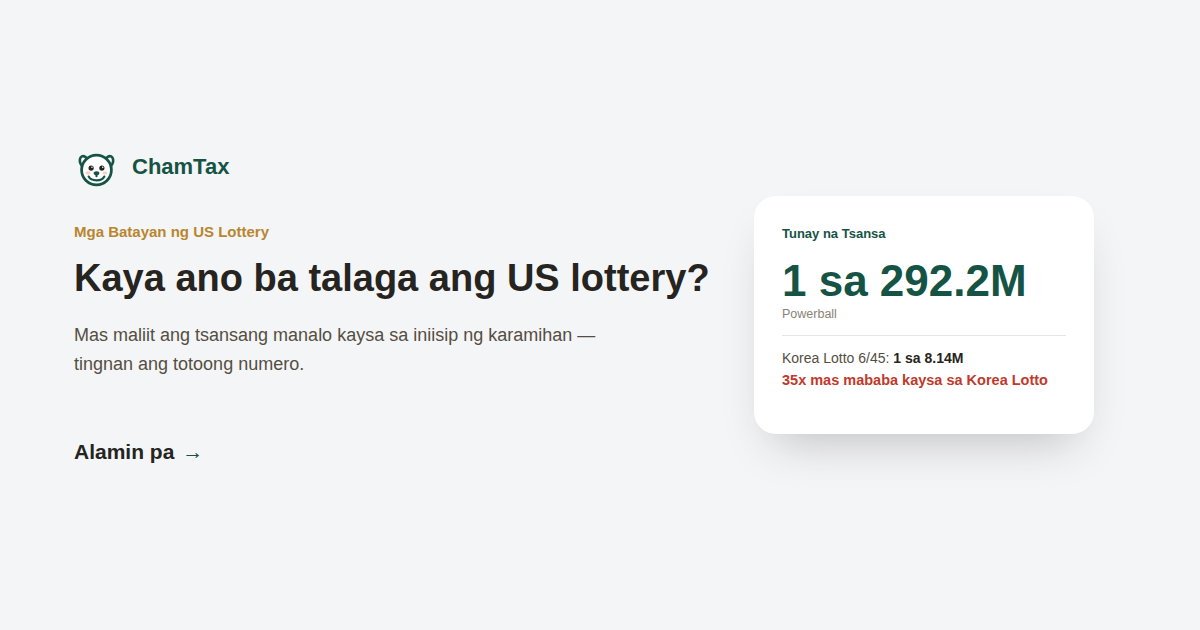
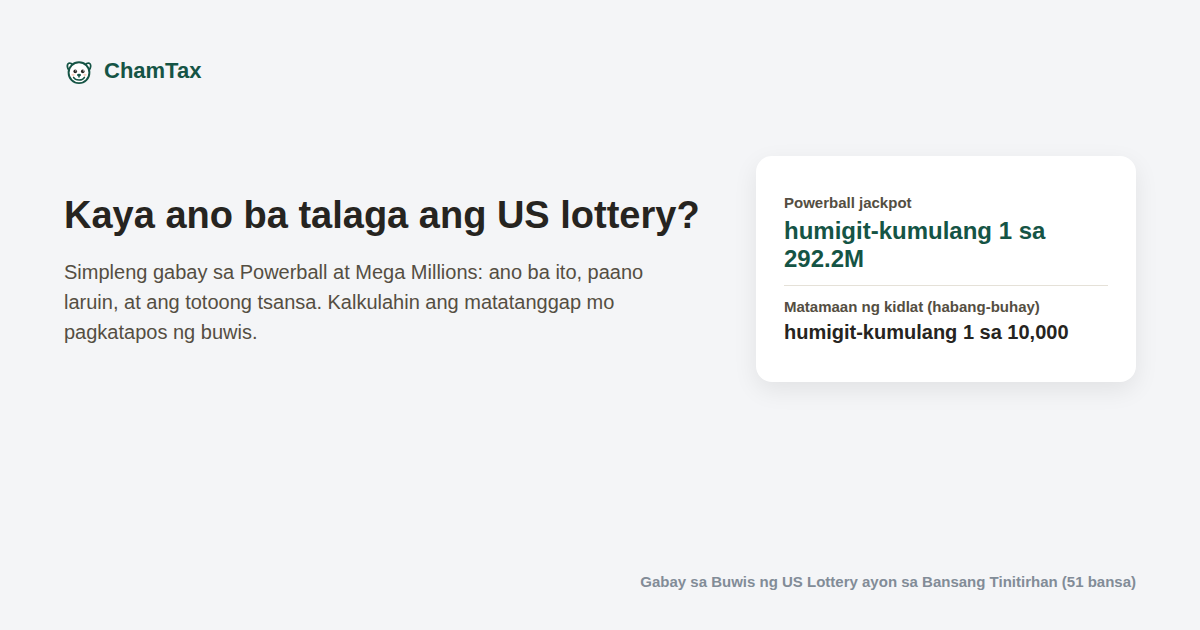
25개 언어 og-image-hook-basics 이미지 재생성 + smart-quote HTML 버그 7건 수정
이전 세션(c0de2eb)이 us-lottery-basics 페이지 본문에서 "한국 로또 6/45, 35배 낮음"
편향을 제거하며 영어판 OG 이미지(og-image-hook-basics-en.png)만 새로 만들고 나머지
25개 언어는 범위 밖으로 남겨둠(HANDOFF "이어서 9" 다음 세션 참고 항목) — 그 결과
페이지 본문은 이미 국가중립(번개 확률 비교)인데 소셜 공유 카드 이미지는 여전히
"한국 로또보다 35배 낮음"을 보여주는 불일치가 발생해있었음. 25개 전부 새로 렌더링해서
해소.

새 이미지는 새 문구를 전혀 만들지 않고 각 페이지가 이미 갖고 있는 번역(H1·meta
description·번개 확률 비교 행·파워볼 잭팟 확률 행·sitemap.html의 "51개국" 문구)만
그대로 재사용 — 번역 품질 리스크 0. 크메르어·미얀마어는 시스템 폰트에 해당 문자가
없어(tofu 발생 확인) @fontsource/noto-sans-khmer·noto-sans-myanmar를 임시 설치해
data URI로 폰트 내장(package.json엔 저장 안 함, 이전 og-image-hook.png 작업과 동일
패턴). 나머지 23개 언어(아랍어·태국어·라오어·신할라어·데바나가리 등 포함)는 실측
결과 이미 시스템 폰트로 정상 렌더링됨을 확인.

**부수적으로 발견·수정한 버그**: 데이터 추출 중 7개 언어 파일(km/ky/lo/mn/my/ne/pt)의
"3. 확률 비교" 섹션에서 `class="compare-bar-label"` 등 3개 속성이 스마트/커브
따옴표(”)로 깨져있는 걸 발견 — 유효하지 않은 HTML이라 해당 행에 CSS 클래스가 전혀
안 먹히고 있었음(514534a/047a4d7 배치 세션이 만든 실수로 추정). 직선 따옴표로 정정.

검증: node --check script.js, broken_link_audit(194)/fact_consistency_audit(199)
ISSUES:0, Playwright console_error_audit(224) ISSUES:0, 25개 이미지 전부 1200×630
확인, 자동 오버플로 검사(headline/subtext/card/footer) 25개 전부 통과, 대표
5개국(es/ar/km/my/zh/tet) 스크린샷 직접 확인.

Claude-Session: https://claude.ai/code/session_01VsCThzBkkjbCz52NZnnksP

diff --git a/us-lottery-basics-my.html b/us-lottery-basics-my.html
@@ -681,9 +681,9 @@
     <div class="compare-bar-label"><span>လျှပ်စီးလွှတ်ခံရခြင်း (တစ်သက်တာ)</span><span>၁၀,၀၀၀ မှာ ၁ ခန့်</span></div>
     <div class="compare-bar-track"><div class="compare-bar-fill" style="width:100%;"></div></div>
   </div>
-  <div class=”compare-bar-row”>
-    <div class=”compare-bar-label”><span>Powerball ဂျက်ပေါ့</span><span>၂၉၂.၂ သန်းမှာ ၁ ခန့်</span></div>
-    <div class=”compare-bar-track”><div class=”compare-bar-fill” style=”width:0.03%;”></div></div>
+  <div class="compare-bar-row">
+    <div class="compare-bar-label"><span>Powerball ဂျက်ပေါ့</span><span>၂၉၂.၂ သန်းမှာ ၁ ခန့်</span></div>
+    <div class="compare-bar-track"><div class="compare-bar-fill" style="width:0.03%;"></div></div>
   </div>
   <p>ဒါက လျှပ်စီးလွှတ်ခံရနိုင်ခြေထက်တောင် ၂၉,၀၀၀ ဆခန့် နည်းပါတယ်။ “ငွေတိုးချဲ့ရေး နည်းလမ်း” တစ်ခုအနေနဲ့ ကြည့်မယ်ဆိုရင် ဒါက ဘာအကြောင်းပြချက်မှ မရှိပါဘူး။</p>
 

diff --git a/us-lottery-basics-km.html b/us-lottery-basics-km.html
@@ -681,9 +681,9 @@
     <div class="compare-bar-label"><span>ត្រូវផ្គររំពេច (ក្នុងមួយជីវិត)</span><span>ប្រហែល ១ ក្នុងចំណោម ១០.០០០</span></div>
     <div class="compare-bar-track"><div class="compare-bar-fill" style="width:100%;"></div></div>
   </div>
-  <div class=”compare-bar-row”>
-    <div class=”compare-bar-label”><span>ជេកផត Powerball</span><span>ប្រហែល ១ ក្នុងចំណោម ២៩២,២ លាន</span></div>
-    <div class=”compare-bar-track”><div class=”compare-bar-fill” style=”width:0.03%;”></div></div>
+  <div class="compare-bar-row">
+    <div class="compare-bar-label"><span>ជេកផត Powerball</span><span>ប្រហែល ១ ក្នុងចំណោម ២៩២,២ លាន</span></div>
+    <div class="compare-bar-track"><div class="compare-bar-fill" style="width:0.03%;"></div></div>
   </div>
   <p>នេះទាបជាងឱកាសត្រូវផ្គររំពេចក្នុងជីវិតរបស់អ្នកប្រហែល ២៩.០០០ ដង។ ប្រសិនបើមើលតែជា “វិធីបង្កើនប្រាក់” វាគ្មានតក្កវិជ្ជាទាល់តែសោះ។</p>
 

diff --git a/us-lottery-basics-ne.html b/us-lottery-basics-ne.html
@@ -681,9 +681,9 @@
     <div class="compare-bar-label"><span>चट्याङ पर्नु (जीवनभरमा)</span><span>लगभग १०,००० मा १</span></div>
     <div class="compare-bar-track"><div class="compare-bar-fill" style="width:100%;"></div></div>
   </div>
-  <div class=”compare-bar-row”>
-    <div class=”compare-bar-label”><span>पावरबल ज्याकपोट</span><span>लगभग २९ करोड २२ लाखमा १</span></div>
-    <div class=”compare-bar-track”><div class=”compare-bar-fill” style=”width:0.03%;”></div></div>
+  <div class="compare-bar-row">
+    <div class="compare-bar-label"><span>पावरबल ज्याकपोट</span><span>लगभग २९ करोड २२ लाखमा १</span></div>
+    <div class="compare-bar-track"><div class="compare-bar-fill" style="width:0.03%;"></div></div>
   </div>
   <p>यो चट्याङ पर्ने सम्भावनाभन्दा लगभग २९,००० गुणा कम हो। यसलाई केवल “पैसा बढाउने तरिका” को रूपमा हेर्ने हो भने यसमा कुनै तर्क छैन।</p>
 

diff --git a/us-lottery-basics-lo.html b/us-lottery-basics-lo.html
@@ -681,9 +681,9 @@
     <div class="compare-bar-label"><span>ຖືກຟ້າຜ່າ (ຕະຫຼອດຊີວິດ)</span><span>ປະມານ 1 ໃນ 10,000</span></div>
     <div class="compare-bar-track"><div class="compare-bar-fill" style="width:100%;"></div></div>
   </div>
-  <div class=”compare-bar-row”>
-    <div class=”compare-bar-label”><span>ລາງວັນໃຫຍ່ພາວເວີບອລ</span><span>ປະມານ 1 ໃນ 292.2 ລ້ານ</span></div>
-    <div class=”compare-bar-track”><div class=”compare-bar-fill” style=”width:0.03%;”></div></div>
+  <div class="compare-bar-row">
+    <div class="compare-bar-label"><span>ລາງວັນໃຫຍ່ພາວເວີບອລ</span><span>ປະມານ 1 ໃນ 292.2 ລ້ານ</span></div>
+    <div class="compare-bar-track"><div class="compare-bar-fill" style="width:0.03%;"></div></div>
   </div>
   <p>ຕ່ຳກວ່າໂອກາດຖືກຟ້າຜ່າໃນຊີວິດປະມານ 29,000 ເທົ່າ. ຖ້າເບິ່ງແຕ່ໃນແງ່ “ວິທີເພີ່ມເງິນ” ມັນບໍ່ມີເຫດຜົນເລີຍ.</p>
 

diff --git a/us-lottery-basics-ky.html b/us-lottery-basics-ky.html
@@ -681,9 +681,9 @@
     <div class="compare-bar-label"><span>Чагылгандан урулуу (өмүр бою)</span><span>болжол менен 10 000дөн 1</span></div>
     <div class="compare-bar-track"><div class="compare-bar-fill" style="width:100%;"></div></div>
   </div>
-  <div class=”compare-bar-row”>
-    <div class=”compare-bar-label”><span>Powerball джекпоту</span><span>болжол менен 292,2 миллиондон 1</span></div>
-    <div class=”compare-bar-track”><div class=”compare-bar-fill” style=”width:0.03%;”></div></div>
+  <div class="compare-bar-row">
+    <div class="compare-bar-label"><span>Powerball джекпоту</span><span>болжол менен 292,2 миллиондон 1</span></div>
+    <div class="compare-bar-track"><div class="compare-bar-fill" style="width:0.03%;"></div></div>
   </div>
   <p>Бул чагылгандан урулуу ыктымалдуулугунан болжол менен 29 000 эсе төмөн. Эгер жөн гана “акча көбөйтүү жолу” катары карасаңыз, мында эч кандай логика жок.</p>
 

diff --git a/us-lottery-basics-mn.html b/us-lottery-basics-mn.html
@@ -681,9 +681,9 @@
     <div class="compare-bar-label"><span>Аянга цохиулах (амьдралдаа)</span><span>ойролцоогоор 10,000 тутамд 1</span></div>
     <div class="compare-bar-track"><div class="compare-bar-fill" style="width:100%;"></div></div>
   </div>
-  <div class=”compare-bar-row”>
-    <div class=”compare-bar-label”><span>Powerball жекпот</span><span>ойролцоогоор 292.2 сая тутамд 1</span></div>
-    <div class=”compare-bar-track”><div class=”compare-bar-fill” style=”width:0.03%;”></div></div>
+  <div class="compare-bar-row">
+    <div class="compare-bar-label"><span>Powerball жекпот</span><span>ойролцоогоор 292.2 сая тутамд 1</span></div>
+    <div class="compare-bar-track"><div class="compare-bar-fill" style="width:0.03%;"></div></div>
   </div>
   <p>Энэ нь аянга цохиулах магадлалаас ойролцоогоор 29,000 дахин бага юм. Зөвхөн “мөнгө өсгөх арга” гэж харвал энэ нь ямар ч логикгүй.</p>
 

diff --git a/us-lottery-basics-pt.html b/us-lottery-basics-pt.html
@@ -681,9 +681,9 @@
     <div class="compare-bar-label"><span>Ser atingido por um raio (na vida)</span><span>cerca de 1 em 10.000</span></div>
     <div class="compare-bar-track"><div class="compare-bar-fill" style="width:100%;"></div></div>
   </div>
-  <div class=”compare-bar-row”>
-    <div class=”compare-bar-label”><span>Prêmio do Powerball</span><span>cerca de 1 em 292,2M</span></div>
-    <div class=”compare-bar-track”><div class=”compare-bar-fill” style=”width:0.03%;”></div></div>
+  <div class="compare-bar-row">
+    <div class="compare-bar-label"><span>Prêmio do Powerball</span><span>cerca de 1 em 292,2M</span></div>
+    <div class="compare-bar-track"><div class="compare-bar-fill" style="width:0.03%;"></div></div>
   </div>
   <p>Isso é cerca de 29.000 vezes menor do que a chance de ser atingido por um raio ao longo da vida. Encarado puramente como “forma de fazer o dinheiro render”, isso não faz nenhum sentido racional.</p>
 
